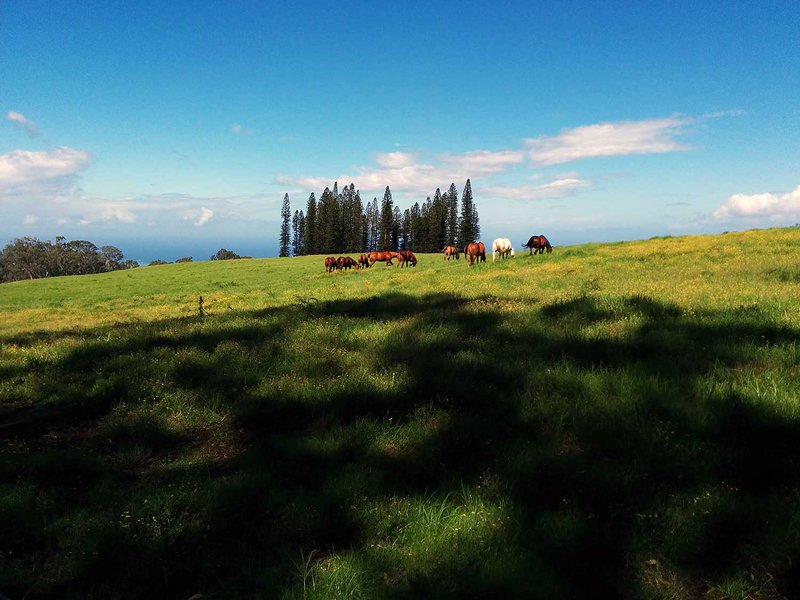
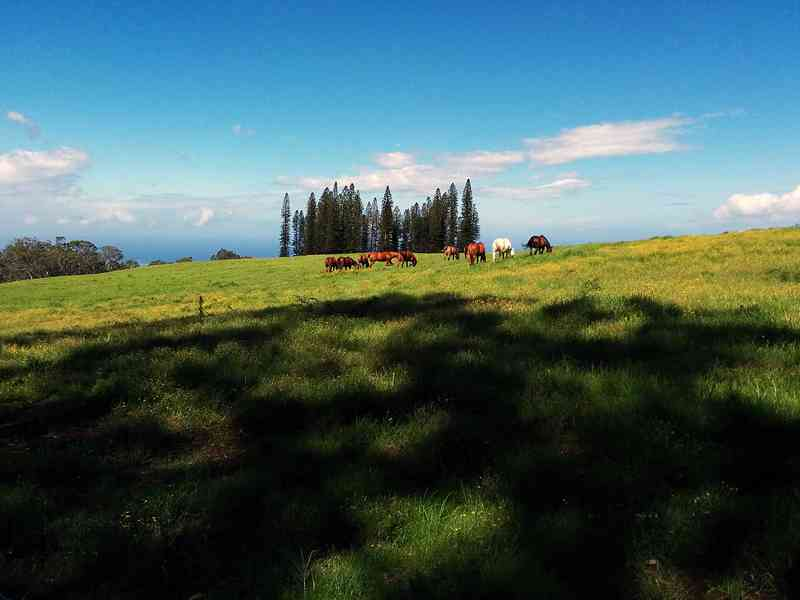
Task updates

diff --git a/index.html b/index.html
@@ -27,7 +27,10 @@
   </article>
   <article>
 
-    <img src="images/still_life-medium.jpg">
+    <figure>
+      <img src="images/still_life-large_2x.jpg">
+      <figcaption>Still Life</figcaption>
+    </figure>
 
     <h2>My story</h2>
 
@@ -36,7 +39,7 @@
       loves cauliflower cheese rubber cheese squirty cheese halloumi cow fondue. Bocconcini cheese and biscuits everyone
       loves fondue red leicester st. agur blue cheese rubber cheese ricotta. Cheesy grin mozzarella.</p>
 
-    <img src="images/horses-medium.jpg">
+    <img src="images/horses-large_2x.jpg">
 
     <p>Bocconcini swiss cut the cheese. Manchego boursin smelly cheese cheesy grin squirty cheese mozzarella cheddar hard cheese.
       Manchego roquefort camembert de normandie cheese slices mascarpone cow cheesy feet airedale. Port-salut jarlsberg gouda
@@ -46,13 +49,13 @@
       Cheddar cheese and biscuits cut the cheese queso hard cheese red leicester parmesan st. agur blue cheese. Smelly cheese
       caerphilly hard cheese cream cheese cream cheese the big cheese feta squirty cheese. Babybel fromage edam lancashire.</p>
 
-    <img src="images/volt-medium.jpg">
+    <img src="images/volt-large_2x.jpg">
 
     <p>Edam parmesan smelly cheese. Dolcelatte say cheese cheesy feet lancashire cow boursin stinking bishop brie. Stilton cheese
       strings say cheese pecorino cheeseburger fromage frais cauliflower cheese manchego. St. agur blue cheese ricotta stinking
       bishop queso camembert de normandie manchego cheese triangles fondue. Gouda.</p>
 
-    <img src="images/cockatoos-medium.jpg">
+    <img src="images/cockatoos-large_2x.jpg">
 
     <p>Babybel cream cheese cheese on toast. Brie fromage swiss cheese and biscuits hard cheese babybel bocconcini brie. Cheesy
       grin swiss cheese strings paneer lancashire cauliflower cheese cheese on toast caerphilly. Queso queso cheese and wine
@@ -70,26 +73,26 @@
       comes out everybody's happy stinking bishop dolcelatte. Parmesan say cheese cream cheese goat cauliflower cheese st.
       agur blue cheese cheese slices hard cheese. Cheese triangles.</p>
 
-    <img src="images/postcard-medium.jpg">
+    <img src="images/postcard-large_2x.jpg">
 
     <p>Pecorino pepper jack cheesy feet. Smelly cheese cauliflower cheese fromage halloumi cream cheese who moved my cheese
       fromage fondue. Feta danish fontina cheesy grin mozzarella fromage cheesy grin airedale paneer. Cheddar halloumi cheese
       and biscuits jarlsberg cheese and biscuits cheese and biscuits squirty cheese.</p>
 
-    <img src="images/grasshopper-medium.jpg">
+    <img src="images/grasshopper-large_2x.jpg">
 
     <p>Babybel cream cheese cheese on toast. Brie fromage swiss cheese and biscuits hard cheese babybel bocconcini brie. Cheesy
       grin swiss cheese strings paneer lancashire cauliflower cheese cheese on toast caerphilly. Queso queso cheese and wine
       taleggio mascarpone cheeseburger.</p>
 
-    <img src="images/sfo-medium.jpg">
+    <img src="images/sfo-large_2x.jpg">
 
     <p>Say cheese swiss cheesy grin. Cheese on toast queso bocconcini cheeseburger fondue manchego smelly cheese port-salut.
       Cream cheese cheese and wine airedale cheeseburger chalk and cheese cauliflower cheese fondue smelly cheese. Queso
       manchego.
     </p>
 
-    <img src="images/rosella-medium.jpg">
+    <img src="images/rosella-large_2x.jpg">
 
     <p>Paneer st. agur blue cheese bocconcini. The big cheese chalk and cheese cheese and biscuits cream cheese cheese triangles
       mascarpone everyone loves rubber cheese. Stinking bishop manchego the big cheese lancashire hard cheese the big cheese

diff --git a/Gruntfile.js b/Gruntfile.js
@@ -16,14 +16,14 @@ module.exports = function (grunt) {
           sizes: [{
             name: "medium",
             width: 800,
-            quality: 85
+            quality: 30
           }
-          // , {
-          //   name: "large",
-          //   width: 1024,
-          //   suffix: "_x2",
-          //   quality: 60
-          // }
+          , {
+            name: "large",
+            width: 1600,
+            suffix: "_2x",
+            quality: 30
+          }
         ]
           // sizes: [{
           //   /*

diff --git a/css/main.css b/css/main.css
@@ -25,14 +25,16 @@ article {
   margin: 0 auto;
 }
 
-h1 {
+h1 {}
 
+figure {
+  margin: 0;
 }
 
 img {
   width: 100%;
 }
 
-img.smiley{
+img.smiley {
   width: 1.5rem;
 }
